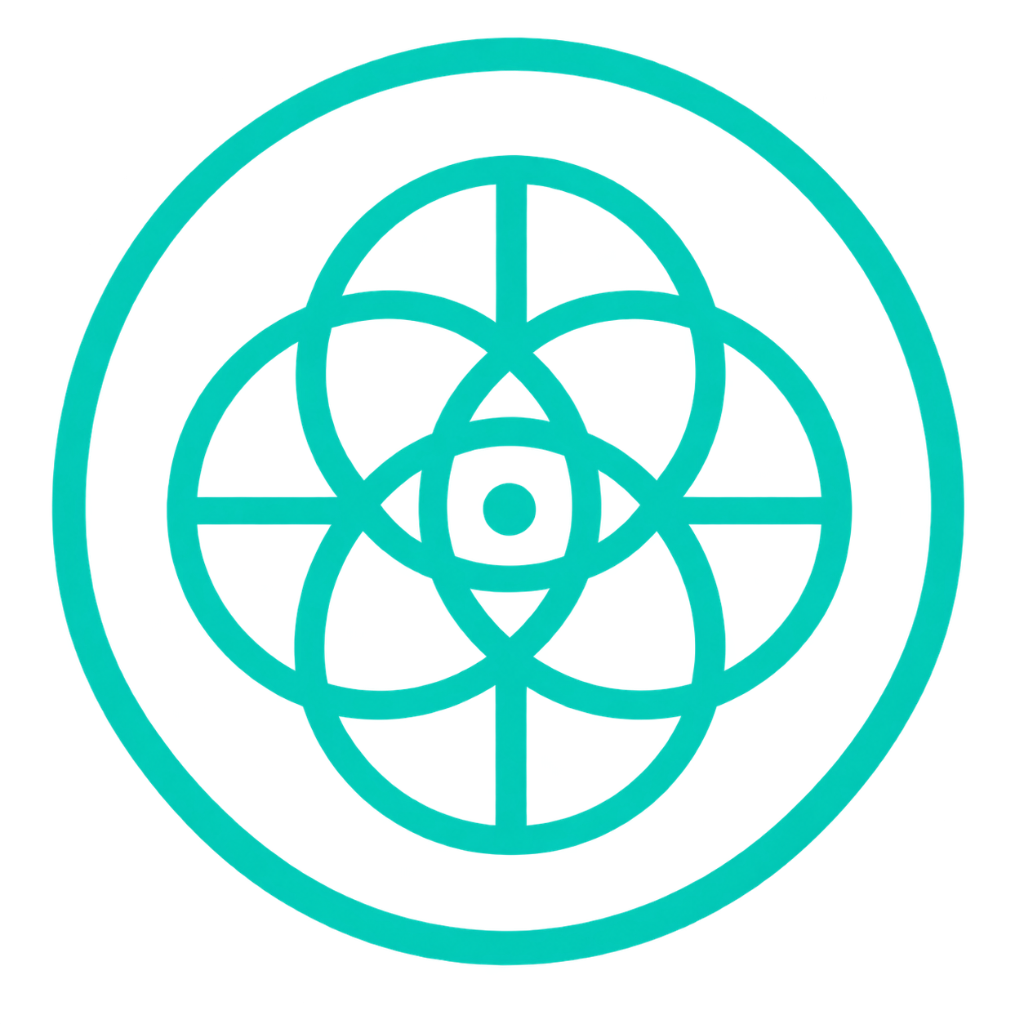
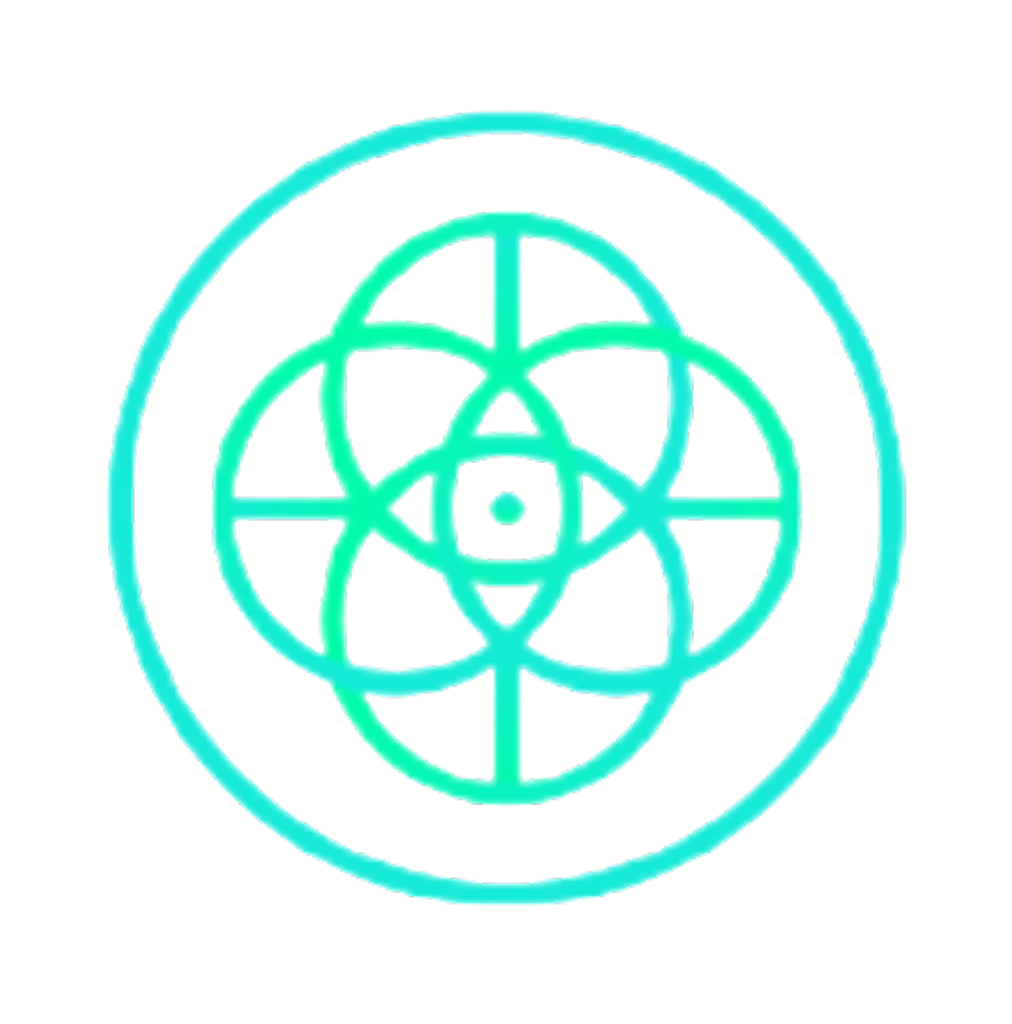
style(presentation): update emblem size and media query adjustments
- Increase emblem size in the hero section for better visibility.
- Adjust media query styles for responsive design, ensuring consistent emblem sizing on smaller screens.
- Update emblem image source to include versioning for cache management.

diff --git a/app/views/commercial/presentation_public.php b/app/views/commercial/presentation_public.php
@@ -28,7 +28,7 @@ $p = fn($text) => nl2br($t($text));
                 linear-gradient(160deg, #0b1a24 0%, #0d2a2f 35%, #0e4740 70%, #11665a 100%);
         }
         .hero-brand { display:flex; align-items:center; justify-content:center; gap:16px; margin-bottom:.15em; }
-        .hero-brand .emblem { width:78px; height:78px; margin:0; flex:0 0 78px; }
+        .hero-brand .emblem { width:92px; height:92px; margin:0; flex:0 0 92px; object-fit:contain; }
         .hero-brand h1 { margin:0; }
         .hero h1 { font-size:3rem; color:#fff; }
         .hero .sub { font-size:1.3rem; font-weight:600; color:#5eead4; }
@@ -71,7 +71,7 @@ $p = fn($text) => nl2br($t($text));
         .slide[data-hidden] { opacity:.35; position:relative; }
         .slide[data-hidden]::after { content:'Oculta para o cliente'; position:absolute; top:12px; right:16px; background:#6b7088; color:#fff; font-size:.72rem; padding:3px 8px; border-radius:6px; }
         .ft { text-align:center; font-size:.78rem; color:#7b819c; }
-        @media (max-width:640px) { .slide { padding:32px 22px; } .hero { padding:48px 22px; } .hero h1 { font-size:2rem; } .hero-brand .emblem { width:56px; height:56px; flex-basis:56px; } h2 { font-size:1.4rem; } }
+        @media (max-width:640px) { .slide { padding:32px 22px; } .hero { padding:48px 22px; } .hero h1 { font-size:2rem; } .hero-brand .emblem { width:64px; height:64px; flex-basis:64px; } h2 { font-size:1.4rem; } }
     </style>
 </head>
 <body>
@@ -85,7 +85,7 @@ $p = fn($text) => nl2br($t($text));
             <?php if ($s['type'] === 'hero'): ?>
             <section class="slide hero" <?= $secAttr ?>>
                 <div class="hero-brand">
-                    <img class="emblem" src="<?= asset('on-emblem.png') ?>" alt="">
+                    <img class="emblem" src="<?= asset('on-emblem.png') ?>?v=2" alt="">
                     <h1><?= $t($s['title']) ?></h1>
                 </div>
                 <?php if ($s['subtitle'] !== ''): ?><p class="sub"><?= $t($s['subtitle']) ?></p><?php endif; ?>
